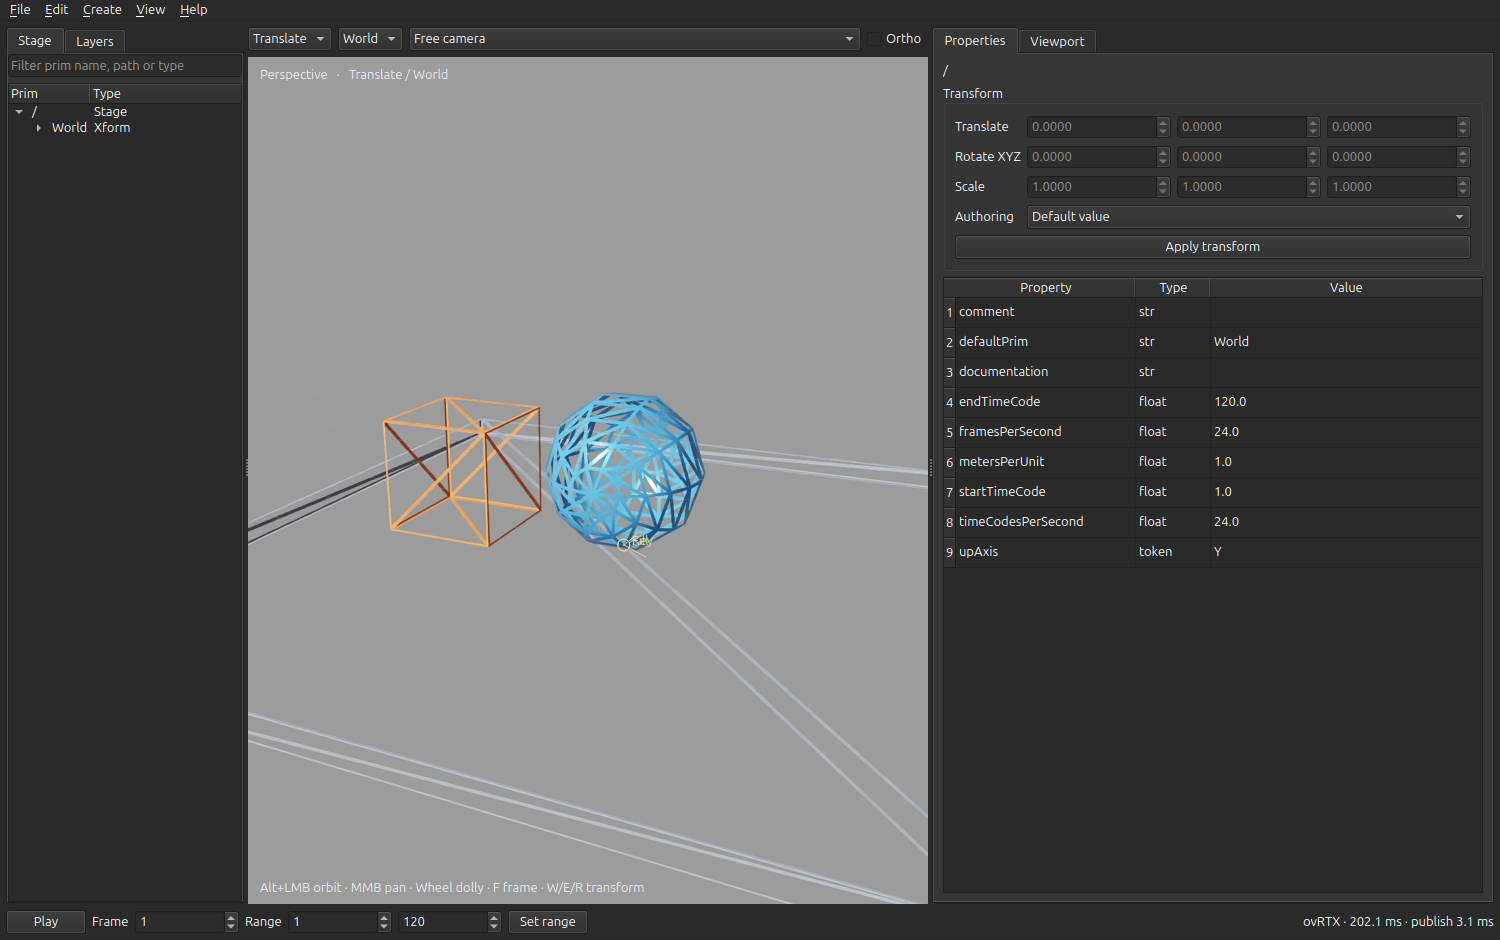
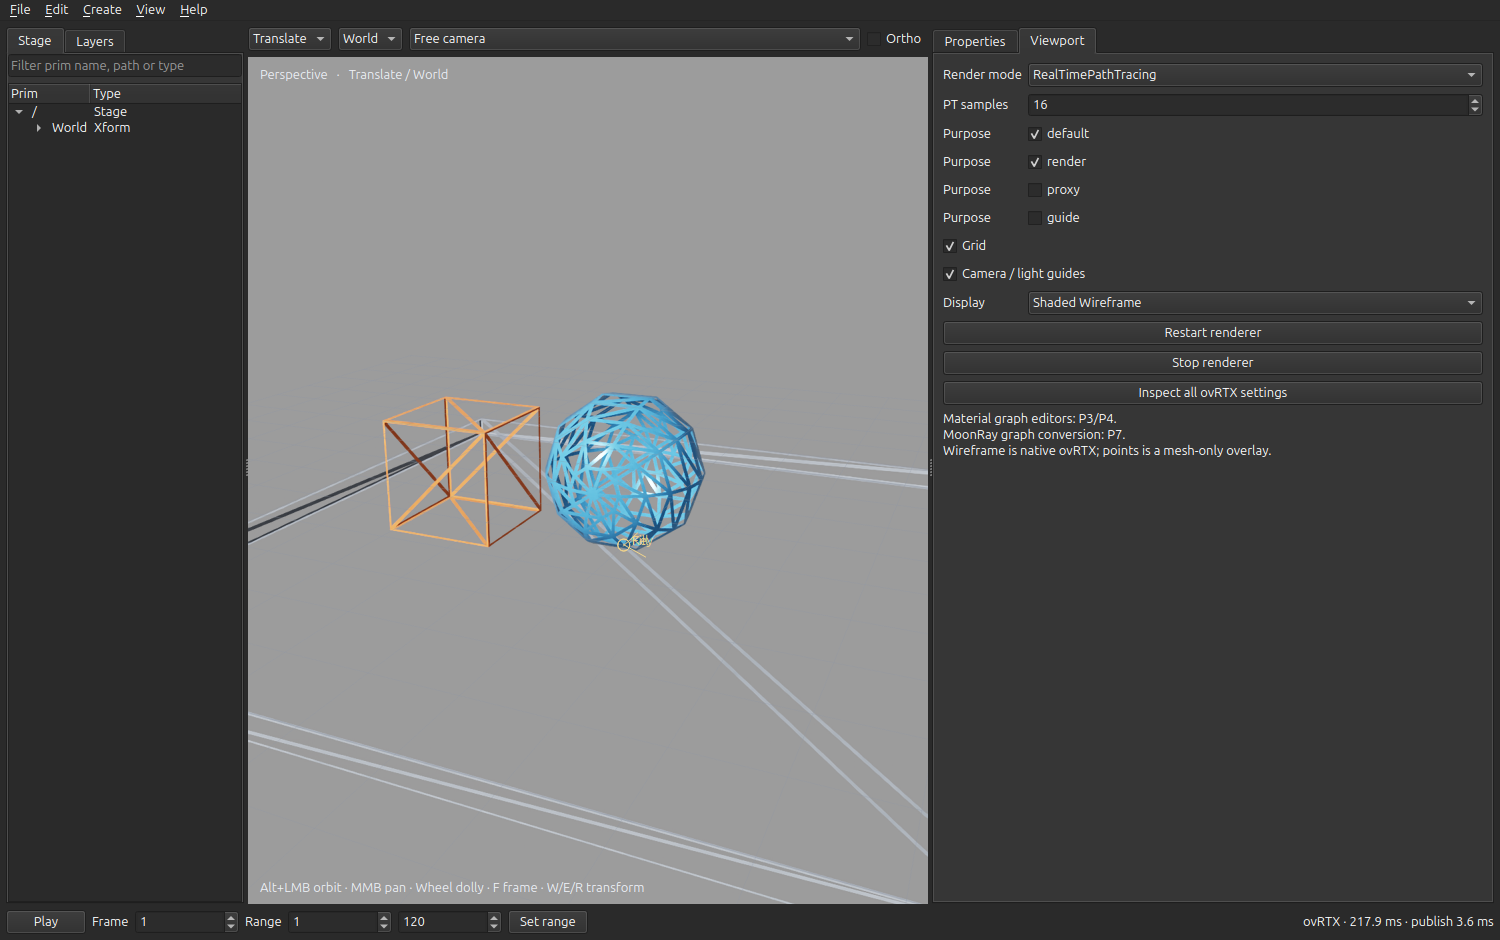
Add shaded and unlit native wireframe choices

diff --git a/src/omnilab/frontends/qt/window.py b/src/omnilab/frontends/qt/window.py
@@ -269,8 +269,8 @@ class MainWindow(QMainWindow):
         guides.toggled.connect(lambda value: self.overlay("guides", value))
         r_layout.addRow(guides)
         self.display = QComboBox()
-        self.display.addItems(["Shaded", "Wireframe", "Points"])
-        self.display.setToolTip("Wireframe uses native ovRTX triangulated edges. Points uses a CPU mesh overlay without depth occlusion.")
+        self.display.addItems(["Shaded", "Shaded Wireframe", "Unlit Wireframe", "Points"])
+        self.display.setToolTip("Shaded Wireframe uses material and lighting on the edges; Unlit Wireframe uses unlit lines. Both show native ovRTX triangulated edges. Points uses a CPU mesh overlay without depth occlusion.")
         self.display.currentTextChanged.connect(self.display_changed)
         r_layout.addRow("Display", self.display)
         for text, callback in (("Restart renderer", self.restart_renderer), ("Stop renderer", self.stop_renderer), ("Inspect all ovRTX settings", self.settings_catalog)):
@@ -345,7 +345,10 @@ class MainWindow(QMainWindow):
         mode = preferences.get("mode", MODES[0])
         self.mode.setCurrentText(mode if mode in MODES[:2] else MODES[0])
         self.samples.setValue(int(preferences.get("samples", 16)))
-        self.display.setCurrentIndex(max(0, self.display.findText(preferences.get("display", "Shaded"))))
+        display = preferences.get("display", "Shaded")
+        if display == "Wireframe":  # Projects saved before the two wireframe choices.
+            display = "Shaded Wireframe"
+        self.display.setCurrentIndex(max(0, self.display.findText(display)))
         self.ortho.setChecked(self.viewport.camera.orthographic)
         for name, check in self.purposes.items():
             check.setChecked(name in preferences.get("purposes", ("default", "render")))
@@ -776,7 +779,8 @@ class MainWindow(QMainWindow):
                 self.snapshot = publish(self.document, Path(self.scratch.name) / str(self.snapshot_number), camera,
                     (w, h), self.mode.currentText(), self.samples.value(),
                     tuple(name for name, check in self.purposes.items() if check.isChecked()),
-                    wireframe=self.display.currentText() == "Wireframe")
+                    wireframe=self.display.currentText() in ("Shaded Wireframe", "Unlit Wireframe"),
+                    wireframe_mode="emissive" if self.display.currentText() == "Unlit Wireframe" else "shaded")
                 self.deltas = {}
                 self.publication_ms = (time.perf_counter() - started) * 1000
                 self.snapshot_dirty = False

diff --git a/src/omnilab/render/snapshot.py b/src/omnilab/render/snapshot.py
@@ -8,9 +8,11 @@ MODES = ("RealTimePathTracing", "PathTracing", "MinimalRendering")
 
 
 def publish(document, directory, camera, resolution=(800, 500), mode=MODES[0], samples=16,
-            purposes=("default", "render"), aovs=("LdrColor",), *, wireframe=False):
+            purposes=("default", "render"), aovs=("LdrColor",), *, wireframe=False, wireframe_mode="shaded"):
     if mode not in MODES:
         raise ValueError("Unknown renderer mode.")
+    if wireframe_mode not in ("shaded", "emissive"):
+        raise ValueError("Unknown wireframe mode.")
     directory = Path(directory)
     directory.mkdir(parents=True, exist_ok=True)
     # Flatten the composed, loaded, unmuted view only for this disposable render snapshot.
@@ -32,7 +34,7 @@ def publish(document, directory, camera, resolution=(800, 500), mode=MODES[0], s
     # Author both states explicitly: the renderer persists across snapshots, so
     # leaving the setting absent could retain the previous viewport's wireframe.
     product.GetPrim().CreateAttribute("omni:rtx:wireframe:enabled", Sdf.ValueTypeNames.Bool).Set(wireframe)
-    product.GetPrim().CreateAttribute("omni:rtx:wireframe:mode", Sdf.ValueTypeNames.Token).Set("shaded" if wireframe else "instance")
+    product.GetPrim().CreateAttribute("omni:rtx:wireframe:mode", Sdf.ValueTypeNames.Token).Set(wireframe_mode if wireframe else "instance")
     product.GetPrim().CreateAttribute("omni:rtx:wireframe:thickness", Sdf.ValueTypeNames.Float).Set(1.5)
     variables = []
     for name in aovs:

diff --git a/docs/P0_P2_STATUS.md b/docs/P0_P2_STATUS.md
@@ -30,9 +30,13 @@ The [desktop replay](evidence/qt-replay.json) passed on the actual desktop. It s
 
 The automated CPU suite has **74 passing tests**, including 64 adapted Lunatic regressions and 10 document/Qt integration checks. The GPU probe separately tests the actual renderer; CPU tests do not substitute for that evidence.
 
-The [native wireframe check](evidence/native-wireframe.json) switched Shaded → Wireframe → Shaded on the actual Qt desktop in both RTPT and PT, retaining the renderer worker. The mean absolute RGBA difference from the initial shaded image was over 10/255 in wireframe and below 0.07/255 after restoring shaded. Saving and reopening an `.omnilab` project restored Wireframe without marking the USD document dirty. The temporary RenderProduct authors `omni:rtx:wireframe:enabled`, `omni:rtx:wireframe:mode` (`shaded`) and `omni:rtx:wireframe:thickness` (1.5); returning to Shaded explicitly disables wireframe.
+The [native wireframe check](evidence/native-wireframe.json) switched between Shaded, Shaded Wireframe and Unlit Wireframe on the actual Qt desktop in both RTPT and PT, retaining the renderer worker. The mean absolute RGB difference from the initial shaded image was over 14/255 in either wireframe mode and below 0.1/255 after restoring shaded. Both wireframe choices survived saving and reopening an `.omnilab` project without marking the USD document dirty. Legacy projects saved as Wireframe reopened as Shaded Wireframe.
 
-![Native ovRTX wireframe in the Qt editor](evidence/native-wireframe.png)
+The temporary RenderProduct authors `omni:rtx:wireframe:enabled`, `omni:rtx:wireframe:mode` (`shaded` for material/lighting on edges, `emissive` for unlit lines) and `omni:rtx:wireframe:thickness` (1.5). Returning to Shaded explicitly disables wireframe. These settings do not modify saved USD geometry or materials.
+
+![Native ovRTX shaded wireframe in the Qt editor](evidence/native-wireframe.png)
+
+![Native ovRTX unlit wireframe in the Qt editor](evidence/native-wireframe-unlit.png)
 
 ![OpenPBR save/reopen rendering](evidence/openpbr.png)
 
@@ -57,7 +61,7 @@ Both fixtures were saved with red material inputs, reopened and rendered. A subs
 2. **Authoring MaterialX registry:** `usd-core` 26.8 lacks the OpenPBR Sdr node definition here. The renderer successfully consumes the authored MaterialX graph using its own assets. P3 still needs a versioned catalog/provider; a functioning render is not proof of authoring reflection support.
 3. **MaterialX cache:** the SDK reports that it cannot create `/usr/bin/cache/rtx.materialx/...` with this system Python installation. Rendering still succeeds, but cache location/packaging requires a supported fix. No system-directory permissions were changed.
 4. **MDL resolution:** the demo authors the installed SDK module's absolute asset path. Save/reopen succeeds on this installation. Copying a project to another machine requires preserving or remapping that dependency; the SDK module is not bundled into the repo.
-5. **Overlay parity:** native wireframe shows triangulated render geometry, including quad diagonals and implicit spheres/cubes; original polygon edges alone are not an implemented display option. Points remains a CPU mesh overlay, skips meshes above 100,000 points and stage traversal after 10,000 prims, and does not test occlusion. Gizmos edit the first selected prim. Unsupported imported transform/lock cases use Lunatic's validation and preserve original stacks.
+5. **Overlay parity:** native wireframe shows triangulated render geometry, including quad diagonals and implicit spheres/cubes. Shaded Wireframe shades the edges; filled surfaces with a wire overlay and original polygon edges alone remain unimplemented. Points remains a CPU mesh overlay, skips meshes above 100,000 points and stage traversal after 10,000 prims, and does not test occlusion. Gizmos edit the first selected prim. Unsupported imported transform/lock cases use Lunatic's validation and preserve original stacks.
 6. **UI and native errors:** worker logs are inspectable during the session; the acceptance tools save copies. A worker failure is shown and requires explicit Restart. Automatic retry is intentionally bounded to user-directed restart.
 
 ## Reproduce

diff --git a/docs/LUNATIC_PARITY.md b/docs/LUNATIC_PARITY.md
@@ -19,7 +19,7 @@ The reference is `/home/dillonb/DEV/astra_tests/moonray_tests/lunatic` as inspec
 | Interactive transform handles and lock behavior | `usd_gizmo.py`, `usd_transform_lock.py` | Replace viewport interaction/presentation, preserve commands, P2 | `test_usd_gizmo_shortcuts.py`, `test_usd_transform_lock.py`; drag is one undo entry, Escape cancels, lock blocks edits |
 | Perspective/orthographic navigation, frame selected/all and camera locks | `usd_camera_navigation.py`, `preview_camera.py` | Replace viewport backend, preserve math and user rules, P2 | `test_euler_viewer.py`, `test_camera_workflows_ui.py`; camera lock edits preserve xform stack and animation |
 | Picking, light/camera guides, grid/axes and selection outlines | `usd_light_outlines.py`, `usd_camera_outlines.py`, `usd_viewport_axes.py` | ovRTX picks plus frontend overlays, P2 | `test_usd_light_outlines.py` plus real desktop replay; pick uses correct image coordinates/revision; overlays never enter exports |
-| Wireframe, wireframe-on-shaded and points | `usd_wire_overlay.py`, `usd_viewer_worker.py` | Probe and replace existing Storm-based implementation, P0/P2 | Dedicated occlusion/camera tests; renderer-only displacement caveat retained; no false equivalence with MinimalRendering |
+| Wireframe, wireframe-on-shaded and points | `usd_wire_overlay.py`, `usd_viewer_worker.py` | Native shaded/unlit wireframe implemented and GPU-tested in RTPT/PT; filled-surface wire overlay and depth-correct points remain P2 | Dedicated occlusion/camera tests; renderer-only displacement caveat retained; no false equivalence with MinimalRendering |
 | Timeline, time-sample indicators, animation and skeleton/joint editing | `usd_skeleton.py`, `usd_viewer.py`, `usd_camera_shutter.py` | Preserve authoring; probe animation/deformation/blur population, P1–P2/P5 | `test_usd_skeleton.py`, `test_skeleton_ui.py`, `test_render_motion_native.py`; fractional time, shutter and time-code conversion verified |
 | Purpose, visibility, subdivision and final-view matching | `usd_purposes.py`, `geometry_settings.py`, `usd_render_snapshot.py` | Preserve USD semantics; replace MoonRay-specific tessellation controls, P2/P5 | `test_geometry_settings.py`, `test_usd_render_snapshot.py`, `test_render_purposes_native.py`; camera and render/proxy/guide policy match |
 | Lights/HDRI, preview setup and copied scene lights | `usd_lighting.py`, `light_graph_controller.py`, `preview_scene.py` | Preserve UsdLux authoring; replace shader/filter/bake specifics, P2–P5 | `test_usd_lighting.py`, `test_light_workflows_ui.py`; intensity/normalize/units and shadow behavior are tested |

diff --git a/docs/IMPLEMENTATION_PLAN.md b/docs/IMPLEMENTATION_PLAN.md
@@ -124,7 +124,7 @@ Keep authoring independent of renderer availability: document inspection, graph 
 
 Replace Storm/MoonRay viewport rendering with ovRTX RTPT by default, with PathTracing and Minimal options according to tested capabilities. Preserve orbit/pan/dolly, perspective/orthographic cameras, frame selected/all, camera locks, up-axis conventions, selection, box picking, outlines, transform handles, time samples and purpose visibility. Geometry overlays such as grids, light/camera guides and gizmos belong to the editor, not saved scene geometry.
 
-Wireframe-on-shaded and geometry-points modes need a dedicated implementation/prototype. Lunatic currently uses a Storm overlay for some MoonRay views; MinimalRendering is not automatically an equivalent wireframe mode. Do not silently remove these controls or suggest a supported mode that produces the wrong result.
+Native shaded and unlit wireframe are implemented and verified in RTPT/PT; see [P0–P2 evidence](P0_P2_STATUS.md). They shade the wire geometry or draw unlit lines. Wireframe over filled shaded surfaces and depth-correct geometry-points modes still need a dedicated implementation/prototype. Lunatic currently uses a Storm overlay for some MoonRay views; MinimalRendering is not automatically an equivalent wireframe mode. Do not silently remove these controls or suggest a supported mode that produces the wrong result.
 
 Use separate RenderProducts for viewport, material preview and final output as needed. Keep resolution/camera/output settings product-specific. Apply shared scene/global settings consistently. For beauty export use linear `HdrColor`; `LdrColor` is the display path. Preserve HDR/negative source values in EXR inspection. OIIO handles channel naming, multipart reads and atomic EXR writing; ovRTX output arrays alone are not a finished RenderView.
 

diff --git a/README.md b/README.md
@@ -23,7 +23,7 @@ The editor supports stage/layer inspection, typed property and transform editing
 
 Alt+left drag orbits, middle drag pans, and the wheel dollies. F frames selection; Shift+F frames the scene. W/E/R select translate/rotate/scale; drag an axis, or Escape to cancel. Click/rectangle selection uses native picking. View → Restart renderer recovers a stopped worker without discarding edits.
 
-Choose Viewport → Display → Wireframe for native ovRTX wireframe in either RTPT or PT. It shows triangulated render geometry, including implicit spheres and cubes. `.omnilab` projects retain the display mode.
+In Viewport → Display, choose **Shaded Wireframe** for edges shaded by materials and lighting, or **Unlit Wireframe** for unlit lines. Both use native ovRTX in RTPT or PT and show triangulated render geometry, including implicit spheres and cubes. `.omnilab` projects retain the display mode; older projects saved as Wireframe reopen as Shaded Wireframe.
 
 ![OmniLab Qt editor with native ovRTX output](docs/evidence/qt-editor.png)
 
